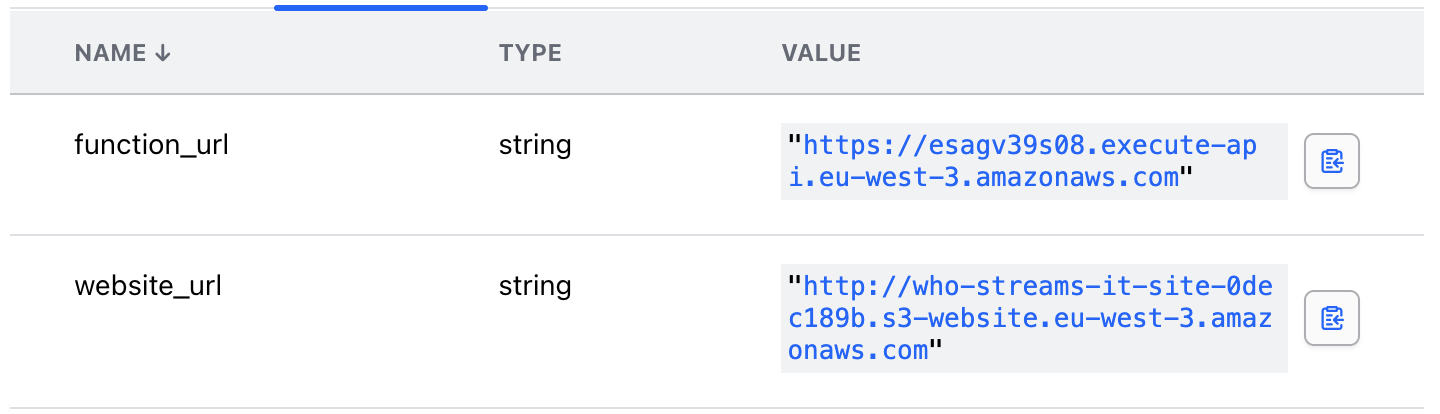
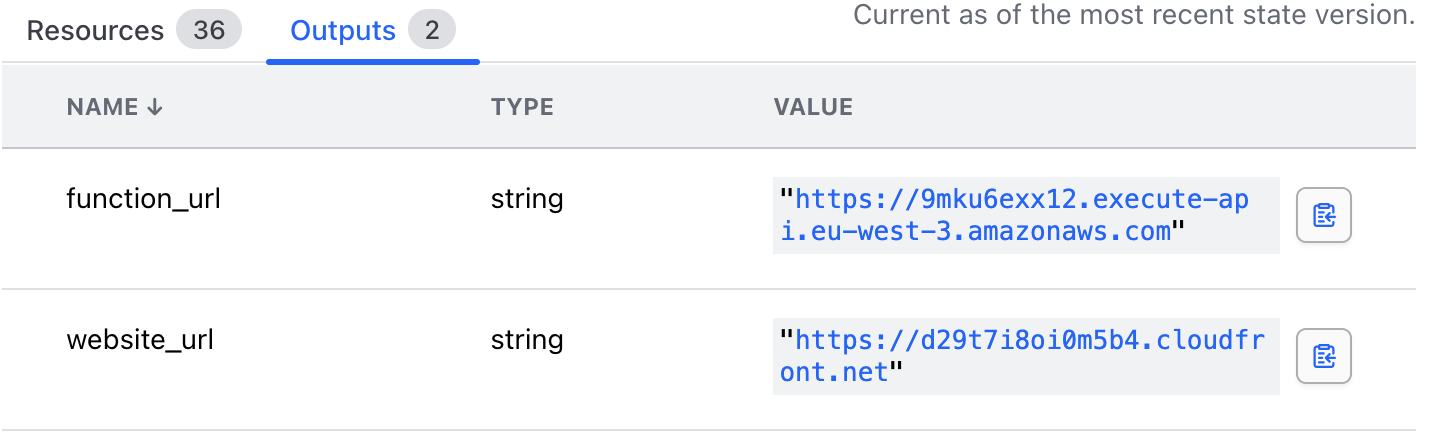
updated README and policy

diff --git a/README.md b/README.md
@@ -78,6 +78,7 @@ Terraform needs permissions to create and manage the AWS resources defined in th
 This project provisions a **serverless** architecture that powers the application end-to-end:
 
 - **Amazon S3** — hosts the single-page application (SPA).
+- **AWS CloudFront** — serves as the public entry point for the SPA.
 - **Amazon API Gateway** — public entry point for API requests from the SPA.
 - **AWS Lambda** — stateless functions handling the business logic.
 - **Amazon CloudWatch Logs** — centralized logging for debugging and traceability.
@@ -86,11 +87,13 @@ This project provisions a **serverless** architecture that powers the applicatio
 
 **How it works**
 
-1. The SPA is served from S3.
-2. User actions call the API through API Gateway.
-3. API Gateway invokes Lambda functions.
-4. Lambdas process the request (e.g., query external services) and return results to the SPA.
-5. API activity is recorded in **CloudWatch Logs**.
+1. The SPA is stored in an S3 bucket, which is secured with an Origin Access Control (OAC) so that only CloudFront can serve its content.  
+2. CloudFront acts as the public entry point, delivering the SPA to users.  
+3. User interactions trigger API requests routed through API Gateway.  
+4. API Gateway invokes the appropriate Lambda functions.  
+5. Lambdas handle the request and return the response to the SPA.  
+6. API activity is logged in **CloudWatch Logs**.  
+
 
 ---
 
@@ -140,9 +143,7 @@ Because TMDB cannot filter providers in the query itself, `pickStreaming()` filt
 
 ## Possible Improvements
 
-- **Front the S3 website with CloudFront** using Origin Access Control (OAC); keep the S3 bucket private and serve via the CDN only. Add an ACM certificate and enforce HTTPS.
 - **Tighten IAM**: replace wildcard actions/resources with explicit ARNs; restrict each Lambda’s execution role to only required permissions.
-- **Secret management**: store `tmdb_key` in AWS Secrets Manager or SSM Parameter Store (with KMS), not in plaintext env vars.
-- **Security & resilience**: add AWS WAF on CloudFront/API Gateway; enable throttling/rate limits on API Gateway.
-- **Observability**: structured logs, CloudWatch metrics/alarms, and (optionally) AWS X-Ray tracing.
-- **Performance**: cache TMDB responses (e.g., API Gateway cache or DynamoDB/ElastiCache) to reduce latency and costs.
+- **Secret management**: store `tmdb_key` in AWS Secrets Manager or SSM Parameter Store (with KMS)
+- **Observability**: generate detailed logs of API actions to improve traceability and make debugging more convenient.
+
